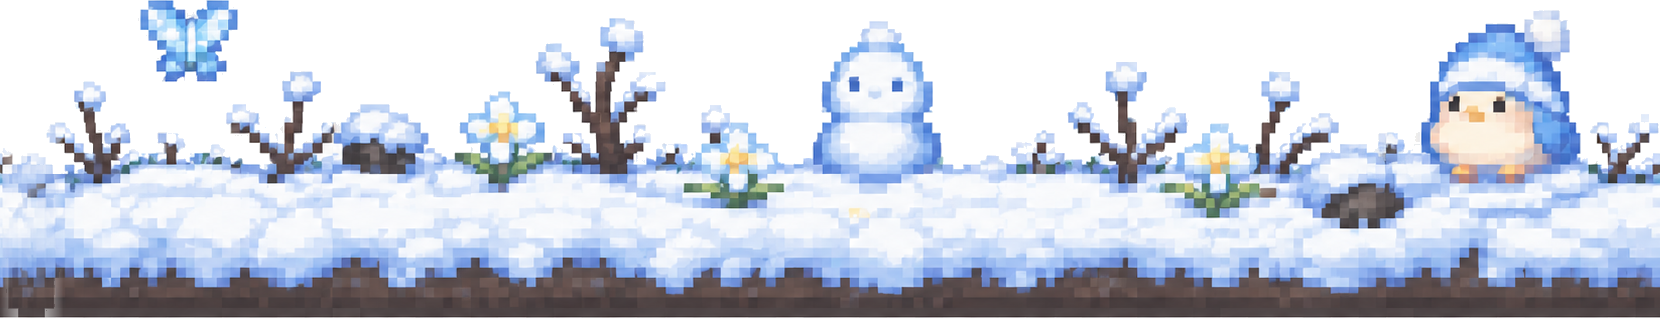
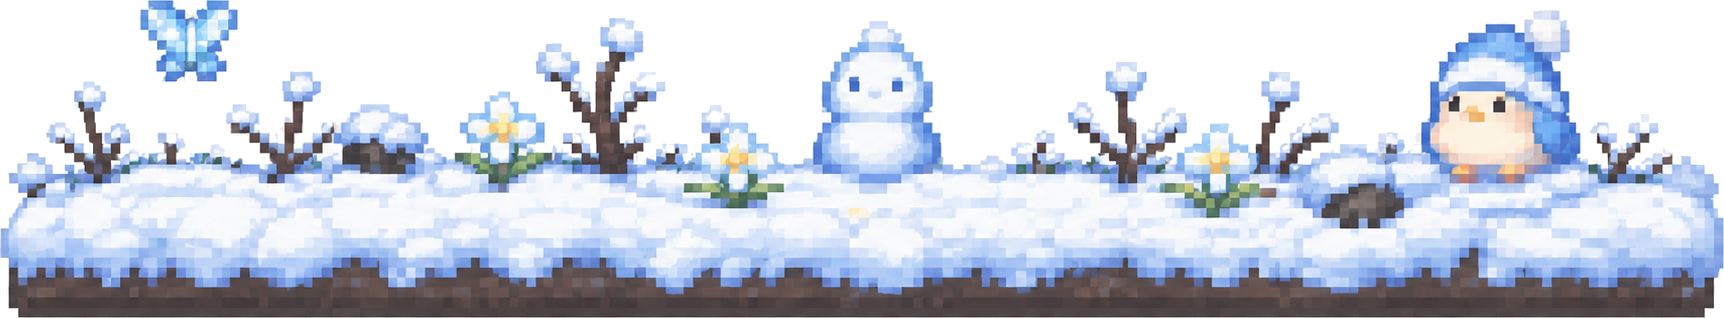
Use the full seasonal grass strips (all decorations kept, no seam crop)

diff --git a/Project/src/entrypoints/popup/App.svelte b/Project/src/entrypoints/popup/App.svelte
@@ -131,9 +131,9 @@
   // lines up; `dot` is the colour of its picker circle.
   const THEMES = {
     meadow: { label: 'Meadow', bg: 'url(/scene/background.png)', grass: '/scene/grass.png', tile: 1571, dot: '#7fb43f' },
-    autumn: { label: 'Autumn', bg: 'url(/scene/autumn-bg.png)', grass: '/scene/autumn-grass.png', tile: 1462, dot: '#d5852f' },
-    rainy: { label: 'Rainy', bg: 'url(/scene/rainy-bg.png)', grass: '/scene/rainy-grass.png', tile: 1088, dot: '#6d88a8' },
-    snow: { label: 'Snow', bg: 'url(/scene/snow-bg.png)', grass: '/scene/snow-grass.png', tile: 1660, dot: '#cfe6f5' },
+    autumn: { label: 'Autumn', bg: 'url(/scene/autumn-bg.png)', grass: '/scene/autumn-grass.png', tile: 2172, dot: '#d5852f' },
+    rainy: { label: 'Rainy', bg: 'url(/scene/rainy-bg.png)', grass: '/scene/rainy-grass.png', tile: 1802, dot: '#6d88a8' },
+    snow: { label: 'Snow', bg: 'url(/scene/snow-bg.png)', grass: '/scene/snow-grass.png', tile: 1724, dot: '#cfe6f5' },
   };
   const THEME_KEYS = Object.keys(THEMES);
   let theme = $derived(s?.theme && THEMES[s.theme] ? s.theme : 'meadow');